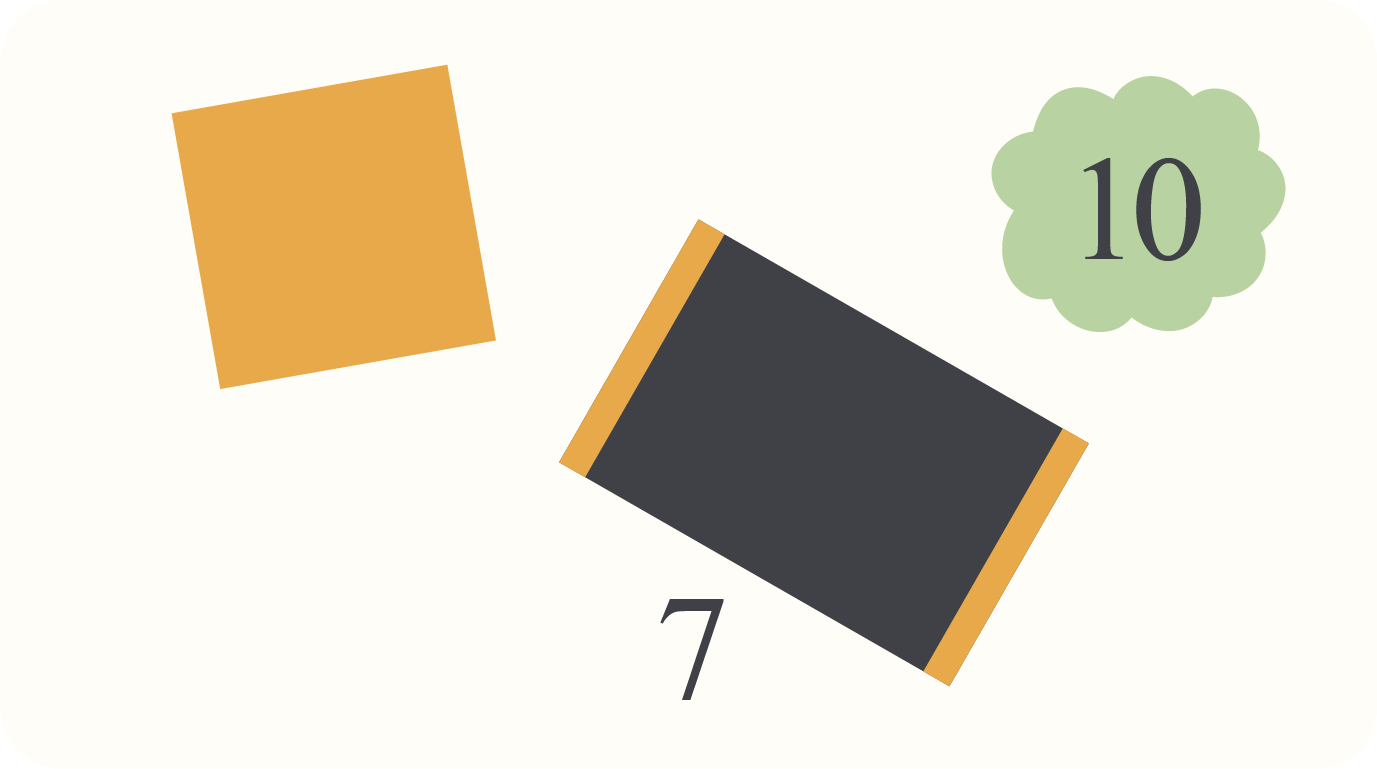
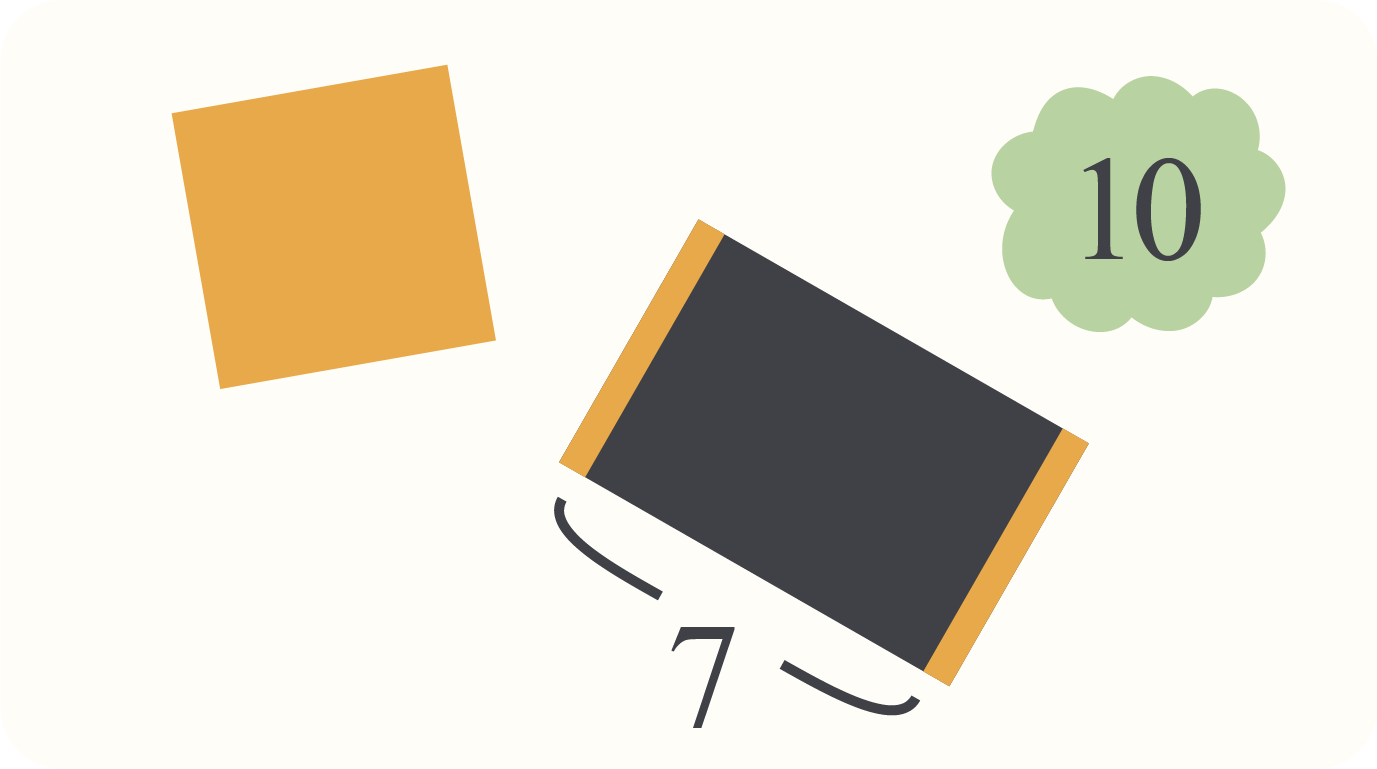
[factorization]シナリオ修正

Changed region(s): [[0.406, 0.6554, 0.5309, 0.9363], [0.5621, 0.8427, 0.687, 0.9363]]

diff --git a/games/factorization-stage/factorization/factorization.js b/games/factorization-stage/factorization/factorization.js
@@ -49,6 +49,14 @@ window.storyFlow["factorization"] = {
       popupImg: "factorization-1"
     },
     {
+      name: "先生",
+      text: "黒の長方形の長さは「7」だよ！",
+      speaker: "usagi",
+      showImgId: "img-usagi-happy",
+      posClass: "left-chara",
+      popupImg: "factorization-1"
+    },
+    {
       name: "うさこ",
       text: "正方形と、横長の長方形と、あと「10」ってなんだろ？！",
       speaker: "usako",
@@ -79,7 +87,7 @@ window.storyFlow["factorization"] = {
     },
     {
       name: "うさこ",
-      text: "ここと、ここは同じ色だからくっつけるよ！",
+      text: "ここと、２つの四角形には同じ長さの色があるからくっつけるよ！",
       speaker: "usako",
       showImgId: "img-usako-normal",
       posClass: "right-chara",
@@ -379,7 +387,7 @@ window.storyFlow["factorization"] = {
     },
     {
       name: "先生",
-      text: "あるんだよ！「7x」の長方形を割ってみよう！",
+      text: "あるんだよ！黒い長方形を割ってみよう！",
       speaker: "usagi",
       showImgId: "img-usagi-happy",
       posClass: "left-chara"
@@ -393,7 +401,7 @@ window.storyFlow["factorization"] = {
     },
     {
       name: "先生",
-      text: "いいよ！どこで分けたらいいか考えてみよう。",
+      text: "いいよ！「7」の長さをどこで分けたらいいか考えてみよう。",
       speaker: "usagi",
       showImgId: "img-usagi-happy",
       posClass: "left-chara"
